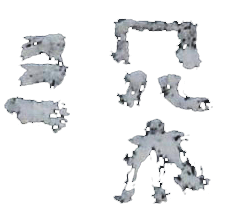
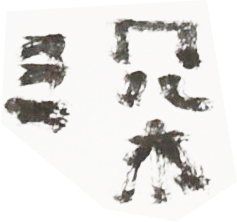
save

diff --git a/src/CutoutAnim/CutoutAnim.cpp b/src/CutoutAnim/CutoutAnim.cpp
@@ -16,6 +16,7 @@ void CutoutAnim::setup()
     knife.setup();
     portrait.setup();
     flyer.setup();
+    kyo.setup();
     
     ofAddListener(Global::tickEvent, this, &CutoutAnim::onTickEvent);
 }
@@ -25,6 +26,7 @@ void CutoutAnim::update()
     knife.update();
     portrait.update();
     flyer.update();
+    kyo.update();
 }
 
 void CutoutAnim::onTickEvent()
@@ -35,8 +37,10 @@ void CutoutAnim::onTickEvent()
     blendCutout.setUniformTexture("knife", knife.getTexture(), 0);
     blendCutout.setUniformTexture("portrait", portrait.getTexture(), 1);
     blendCutout.setUniformTexture("flyer", flyer.getTexture(), 2);
+    blendCutout.setUniformTexture("kyo", kyo.getTexture(), 3);
     blendCutout.setUniform3f("rdmForPortrait", ofRandom(-0.05, 0.05), ofRandom(-0.05, 0.05), ofRandom(-0.05, 0.05));
     blendCutout.setUniform3f("rdmForFlyer", ofRandom(-0.025, 0.025), ofRandom(-0.025, 0.025), ofRandom(-0.025, 0.025));
+    blendCutout.setUniform3f("rdmForKyo", ofRandom(-0.025, 0.025), ofRandom(-0.025, 0.025), ofRandom(-0.025, 0.025));    
     drawPlane(cutoutFullScreen.getWidth(), cutoutFullScreen.getHeight());
     blendCutout.end();
     cutoutFullScreen.end();

diff --git a/src/Anim/Ink/Ink.cpp b/src/Anim/Ink/Ink.cpp
@@ -13,7 +13,7 @@ void Ink::setup()
     scrn.allocate(APP_W, APP_H);
     clearScrn();
 
-    canvasRatio = 2.0;
+    canvasRatio = 4.0;
     canvasW = APP_W / canvasRatio;
     canvasH = APP_H / canvasRatio;
     inkSim.setup(canvasW, canvasH);
@@ -57,7 +57,7 @@ void Ink::onInkEvent()
     
     ofSetRectMode(OF_RECTMODE_CENTER);
     
-    float rdm = ofRandom(0.8, 1.5);
+    float rdm = ofRandom(0.8, 4.5);
     inkSim.begin();
     ofPushMatrix();
     ofTranslate(ofRandom(300 / canvasRatio, APP_W / canvasRatio - 300 / canvasRatio),

diff --git a/src/CutoutAnim/Kyo/Kyo.hpp b/src/CutoutAnim/Kyo/Kyo.hpp
@@ -1,0 +1,32 @@
+//
+//  Kyo.hpp
+//  Entrance
+//
+//  Created by Akira Hayasaka on 7/12/16.
+//
+//
+
+#ifndef Kyo_hpp
+#define Kyo_hpp
+
+#include "ofMain.h"
+#include "Constants.h"
+#include "Globals.hpp"
+
+class Kyo
+{
+public:
+    
+    void setup();
+    void update();
+    ofTexture& getTexture() { return scrn.getTexture(); }
+    
+private:
+    
+    void clearScrn();
+    void onTickEvent();
+    
+    ofFbo scrn;
+};
+
+#endif /* Kyo_hpp */

diff --git a/src/CutoutAnim/Kyo/Kyo.cpp b/src/CutoutAnim/Kyo/Kyo.cpp
@@ -1,0 +1,34 @@
+//
+//  Kyo.cpp
+//  Entrance
+//
+//  Created by Akira Hayasaka on 7/12/16.
+//
+//
+
+#include "Kyo.hpp"
+
+void Kyo::setup()
+{
+    scrn.allocate(APP_W, APP_H);
+    clearScrn();
+    
+    ofAddListener(Global::tickEvent, this, &Kyo::onTickEvent);
+}
+
+void Kyo::update()
+{
+    
+}
+
+void Kyo::onTickEvent()
+{
+    
+}
+
+void Kyo::clearScrn()
+{
+    scrn.begin();
+    ofClear(255);
+    scrn.end();
+}

diff --git a/src/CutoutAnim/Kyo/KyoTexture.hpp b/src/CutoutAnim/Kyo/KyoTexture.hpp
@@ -1,0 +1,24 @@
+//
+//  KyoTexture.hpp
+//  Entrance
+//
+//  Created by Akira Hayasaka on 7/12/16.
+//
+//
+
+#ifndef KyoTexture_hpp
+#define KyoTexture_hpp
+
+#include "ofMain.h"
+#include "ofxTweenzor.h"
+
+class KyoTexture : public ofTexture
+{
+public:
+    
+    
+private:
+    
+};
+
+#endif /* KyoTexture_hpp */

diff --git a/src/Content.cpp b/src/Content.cpp
@@ -120,7 +120,7 @@ void Content::genFullScreenContent()
 
 void Content::drawLeft()
 {
-    cutout.getTexture().drawSubsection(0, 0, PROJ_W, PROJ_H, 0, 0);
+    fullScreenResult.getTexture().drawSubsection(0, 0, PROJ_W, PROJ_H, 0, 0);
 }
 
 void Content::drawRight()

diff --git a/src/CutoutAnim/CutoutAnim.hpp b/src/CutoutAnim/CutoutAnim.hpp
@@ -16,6 +16,7 @@
 #include "Knife.hpp"
 #include "Portrait.hpp"
 #include "Flyer.hpp"
+#include "Kyo.hpp"
 
 class CutoutAnim
 {
@@ -35,6 +36,7 @@ private:
     Knife knife;
     Portrait portrait;
     Flyer flyer;
+    Kyo kyo;
 };
 
 #endif /* CutoutAnim_hpp */

diff --git a/src/CutoutAnim/Kyo/KyoTexture.cpp b/src/CutoutAnim/Kyo/KyoTexture.cpp
@@ -1,0 +1,9 @@
+//
+//  KyoTexture.cpp
+//  Entrance
+//
+//  Created by Akira Hayasaka on 7/12/16.
+//
+//
+
+#include "KyoTexture.hpp"
